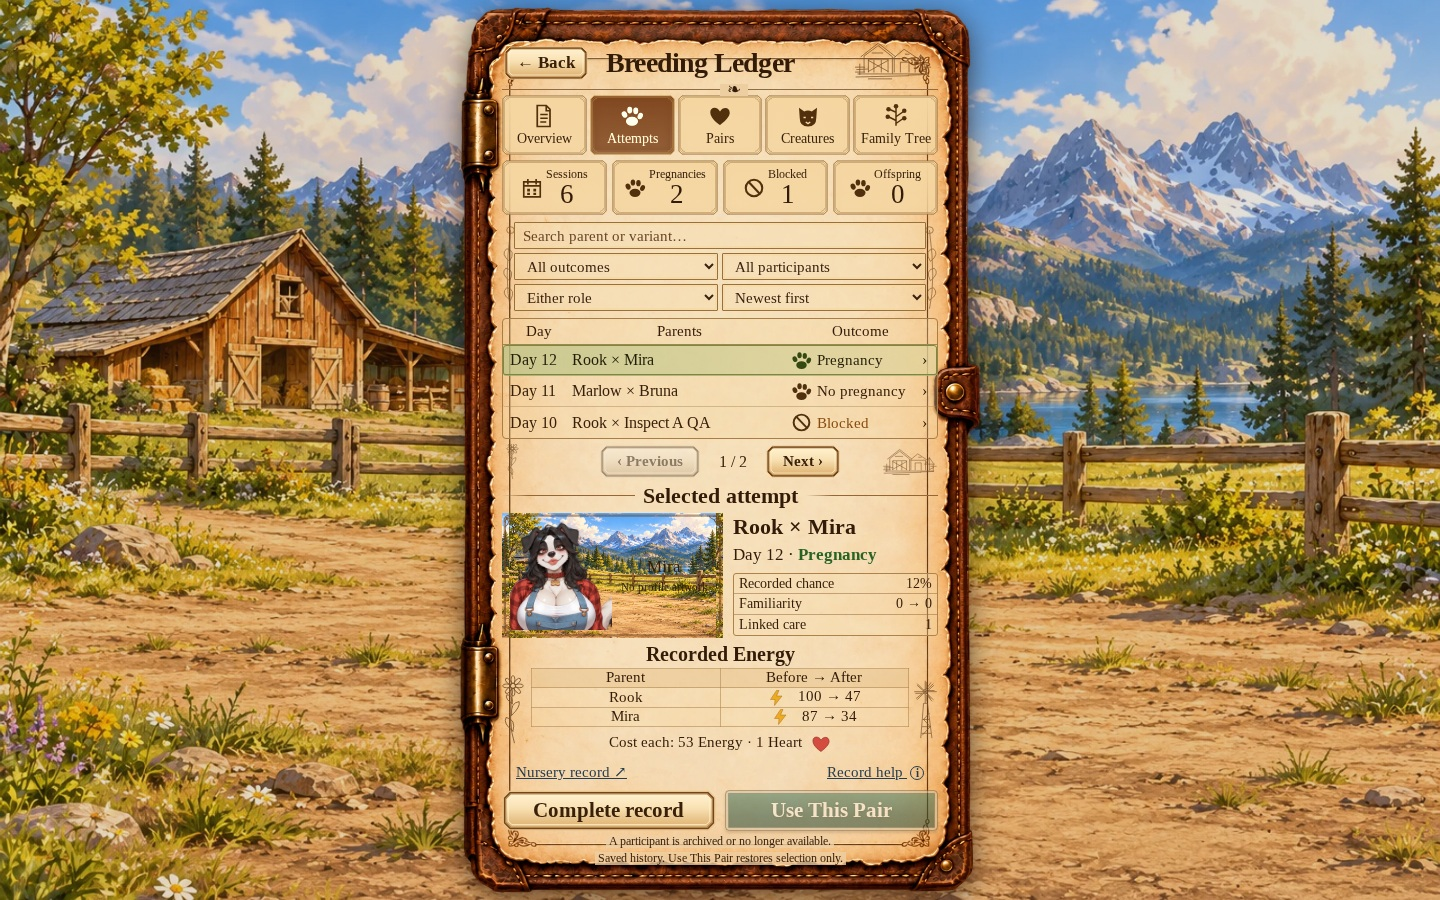
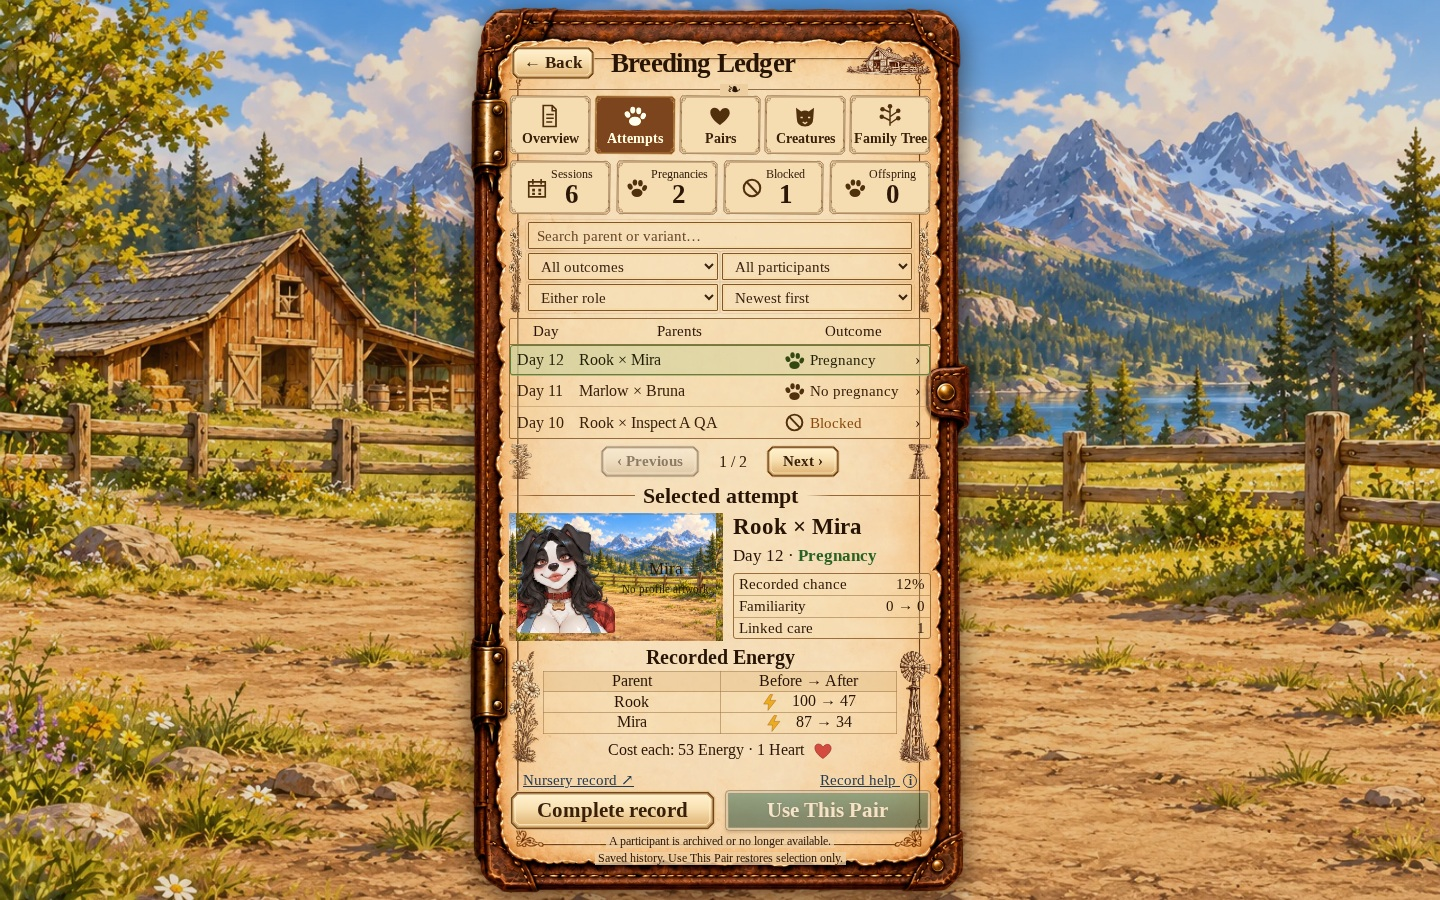
Refine Ledger B with engraved surfaces and detailed sepia artwork

Changed region(s): [[0.3125, 0.0, 0.6875, 0.9956]]

diff --git a/src/features/breeding-records/BreedingLedgerBook.module.css b/src/features/breeding-records/BreedingLedgerBook.module.css
@@ -35,3 +35,14 @@
 @media(max-width:700px){.counts span{font-size:10px}.counts .icon{width:18px;height:18px}.shell .tabs button{border-width:3px}.profile>img{width:230%;left:-65%}}
 @media(min-width:701px) and (min-height:780px){.identity{min-height:120px;max-height:145px}.summary{gap:4px}.summary dl>div{padding:2px 5px}.energy table{font-size:15px}.energy :is(th,td){padding:1px 2px}.energy td .icon{width:16px;height:16px}.energy p{font-size:15px}.links{min-height:25px}.pager{padding-top:1px;padding-bottom:1px}}
 @media(min-width:701px) and (max-height:500px){.shell[data-ledger-tab=overview] .content dl>div{padding:3px}.shell[data-ledger-tab=overview] .content dt{font-size:11px;line-height:1.1}.shell[data-ledger-tab=overview] .content dd{font-size:16px;line-height:1.1;margin:0}.shell[data-ledger-tab=overview] .content>h3{font-size:17px}.shell[data-ledger-tab=overview] .content{gap:4px 12px}.shell[data-ledger-tab=overview] .content>p{font-size:11px}.shell[data-ledger-tab=overview] .content button{font-size:12px;min-height:27px}.shell[data-ledger-tab=overview] .selected{align-content:center}}
+/* Second reference pass: darker etched ink, finer irregular borders, stronger type. */
+.shell{color:#281405}.shell .tabs button{border-image-source:url('/images/ui/breeding-ledger-journal-b/fidelity-v2/tab.svg');font-weight:700;box-shadow:none}.shell .tabs button[aria-pressed=true]{border-image-source:url('/images/ui/breeding-ledger-journal-b/fidelity-v2/tab-active.svg');color:#fff1d3}.counts>div{border-image-source:url('/images/ui/breeding-ledger-journal-b/fidelity-v2/tab.svg');box-shadow:none}.counts span{color:#2b1608}.counts strong{font-weight:700}.filters :is(input,select){border-color:#82552b;outline:1px solid #b28b5933;outline-offset:2px}.list{border-color:#956b3b;border-radius:2px}.tableHeader{border-bottom-color:#986e3c}.shell .row{border-bottom-color:#ad825177}.shell .row[aria-pressed=true]{background:linear-gradient(90deg,#c5d09a99,#e3d3a080);box-shadow:inset 0 0 0 1px #5c843c}.summary dl{border-color:#9b6e3c}.summary dl>div{border-bottom-color:#9b6e3c88}.identity .scene{border-image-source:url('/images/ui/breeding-ledger-journal-b/fidelity-v2/engraved-frame.svg');border-image-slice:32;border-image-width:13px}.selected>h2{font-weight:700}.energy :is(th,td){border-color:#9d724288}.energy h3{font-weight:700}.footer>small{font-size:12px}
+@media(min-width:701px) and (min-height:780px){.book{width:min(500px,100%);padding-left:39px;padding-right:39px}.shell .row{font-size:16px}.summary dl{font-size:15px}.summary h3{font-size:23px}.summary p{font-size:17px}.summary{gap:4px}.identity{min-height:128px;max-height:145px}.energy table{font-size:16px}.energy td .icon{width:17px;height:17px}.energy p{font-size:16px}.header{gap:16px}.header h1{font-size:27px}.header:before{width:80px}.footer>small{font-size:12px}.counts span{font-size:12px}}
+@media(max-width:700px){.footer>small{font-size:10px}.summary dl{font-size:13px}.summary dl>div{padding:2px 3px}}
+@media(max-height:600px){.footer>small{font-size:10px}.summary dl{font-size:12px}}
+.energy{padding-left:34px;padding-right:34px;background-image:url('/images/ui/breeding-ledger-journal-b/fidelity-v2/flowers.webp'),url('/images/ui/breeding-ledger-journal-b/fidelity-v2/windmill.webp');background-size:31px 112px,32px 112px}.pager{background-image:url('/images/ui/breeding-ledger-journal-b/fidelity-v2/flowers.webp'),url('/images/ui/breeding-ledger-journal-b/fidelity-v2/windmill.webp');background-size:23px 43px,23px 43px}.filters{background:url('/images/ui/breeding-ledger-journal-b/fidelity-v2/flowers.webp') left center/13px 92px no-repeat,url('/images/ui/breeding-ledger-journal-b/fidelity-v2/flowers.webp') right center/13px 92px no-repeat;padding-left:19px;padding-right:19px}
+@media(max-width:700px){.energy{padding-left:27px;padding-right:27px;background-size:24px 97px,25px 97px}.pager{background-size:17px 33px,17px 33px}.filters{padding-left:14px;padding-right:14px;background-size:10px 82px,10px 82px}}
+@media(max-height:600px){.energy,.pager{background:none}.energy{padding-left:10px;padding-right:10px}.filters{background:none;padding-left:8px;padding-right:8px}}
+.profile>img{width:300%;left:-100%}
+@media(max-width:700px){.profile>img{width:320%;left:-110%}}
+@media(min-width:701px) and (min-height:780px){.header:before{background-image:url('/images/ui/breeding-ledger-journal-b/fidelity-v2/barn.webp');width:85px;height:43px}}

diff --git a/scripts/build-breeding-ledger-fidelity-v2.py b/scripts/build-breeding-ledger-fidelity-v2.py
@@ -1,0 +1,12 @@
+from pathlib import Path
+out=Path('public/images/ui/breeding-ledger-journal-b/fidelity-v2');out.mkdir(parents=True,exist_ok=True)
+# Deliberately irregular parallel rules and corner hatching reproduce the etched reference.
+for name,face,edge in [('tab','#f6ddb1','#79502a'),('tab-active','#74401c','#c4964e')]:
+ body=f'<path d="M7 2 111 3l7 6-1 62-7 7L8 77l-6-6 1-62Z" fill="{face}" stroke="{edge}" stroke-width="1.5"/><path d="M10 5h98l7 6-1 58-6 6H10l-5-6 1-58Z" fill="none" stroke="{edge}" stroke-width=".7"/>'
+ body+=f'<g fill="none" stroke="{edge}" stroke-width=".9"><path d="m7 17 1-8 8-2-4 7-5-3m98-4 8 2 2 8-7-5 3-5M7 63l1 8 8 2-4-7-5 3m98 4 8-2 2-8-7 5 3 5"/><path d="m4 25 2 3m108-1 2-3M5 55l1 3m108-3 2 3"/></g>'
+ (out/f'{name}.svg').write_text('<svg xmlns="http://www.w3.org/2000/svg" width="120" height="80" viewBox="0 0 120 80">'+body+'</svg>')
+# Thin florid corner frame with a genuinely transparent center, suitable for native content.
+corner='<path d="M2 31V2h29M5 26V5h21M8 17q-5-9 3-9t8 9q0 7-7 4t1-7q8-3 11-9M6 30q9-1 14-10M25 3q-6 9-2 16m-8-3q-5-12-8-9M3 24q7 1 11-4"/>'
+body='<path d="M31 3h338M397 31v178M369 237H31M3 209V31" stroke-width=".8"/>'
+for trans in ['', 'translate(400 0) scale(-1 1)','translate(0 240) scale(1 -1)','translate(400 240) scale(-1 -1)']:body+=f'<g transform="{trans}">{corner}</g>'
+(out/'engraved-frame.svg').write_text('<svg xmlns="http://www.w3.org/2000/svg" width="400" height="240" viewBox="0 0 400 240" fill="none" stroke="#80532a" stroke-width="1">'+body+'</svg>')

diff --git a/public/images/ui/breeding-ledger-journal-b/fidelity-v2/README.md b/public/images/ui/breeding-ledger-journal-b/fidelity-v2/README.md
@@ -1,0 +1,9 @@
+# Concept B fidelity pass 2
+
+The unchanged approved reference is ../source/approved-options.png. Runtime narrows the desktop folio to500px, increases historical summary/record typography and ink contrast, adds irregular engraved tab/count surfaces, an engraved transparent picture frame, and real sepia marginalia with reserved gutters. These are live controls, never a flattened mockup. Canonical profile art, saved values and all source/selection semantics are unchanged.
+
+Generation: built-in imagegen, true transparent background, each distinct asset generated separately using the approved B board as style reference. Untouched PNG masters are retained; WebP outputs preserve RGBA, trim transparent outer space, resize to700px tall and use quality94. Native surfaces rebuild with scripts/build-breeding-ledger-fidelity-v2.py.
+
+Flowers prompt: Use case: stylized-concept. Production transparent game UI decoration, a single narrow vertical sepia ink engraving of three daisies and small wheat/wildflower stems, tiny rustic fence at base. Match fine dark brown hand-etched botanical margin drawings in CENTER B Ranch Field Journal of reference. Dense delicate expressive pen strokes, warm umber dark ink, no colored petals. Tall narrow composition like1:3 ratio, stems curve gently, detailed petals and leaves. Fully transparent background, no parchment or paper or rectangle, NO text, no characters, no clovers, no gold, no shadows. Entire ornament fully contained. This is a margin asset for a professional illustrated ranch journal UI.
+
+Windmill prompt: Use case: stylized-concept. Production transparent game UI ornament, a single narrow vertical sepia ink engraving of an old rustic farm wind pump, circular many-bladed windwheel at top, tapered lattice tower, with a few small wildflowers and rural fence at its base. Match detailed dark brown hand-etched windmill in CENTER B Ranch Field Journal reference, bottom right of record area. Fine expressive pen hatching and weathered farm charm, warm umber dark ink, NO color, gold or cast shadow. Tall narrow1:3 composition, transparent background with absolutely no paper/rectangle, NO text or characters. Whole windmill contained. Premium illustrated fantasy ranch journal marginalia.

diff --git a/docs/BREEDING_LEDGER_JOURNAL_B_RUNTIME.md b/docs/BREEDING_LEDGER_JOURNAL_B_RUNTIME.md
@@ -5,3 +5,6 @@ Selected reference: public/images/ui/breeding-ledger-journal-b/source/approved-o
 Implements tall parchment/leather folio, five icon tabs, grouped filters, paged history, selected historical chance/familiarity/care, exact recorded Energy and costs, Nursery links and selection-only pair restoration. Canonical profile sources remain unchanged. Complete records use Summary, Costs & growth, Offspring and optional Scenes, retaining all original data. Overview is one grouped dashboard. Short windows use Records/Selected record focus; real history collections alone paginate.
 
 Seven ledger-care/selection tests pass. Browser QA covers six viewports, all five tabs and focus views, four complete-record sections, hover/tap help, full profiles, all filters, exact Nursery source return, selection-only handoff, all-eight breeding-window navigation, archived fallback, long names and empty history. Serialized gameplay save remains unchanged throughout. No page errors. Results: docs/validation/breeding-ledger-journal-b/results.json. The final optimized production build and production browser pass are checked before publication. PR21 stays draft/unmerged.
+
+## Second fidelity pass
+User again compared actual screen against B. Fidelity-v2 now uses a500px desktop folio, irregular etched tab/count borders and transparent picture frame, stronger dark ink/bold navigation/counts, larger historical metrics and generated sepia daisy/windmill marginalia. Drawings stay in filter/pager/Energy gutters and are removed from short primary views where they would reduce clarity. Source masters, prompts and SHA256 manifest remain in the asset kit. Actual desktop/phone screenshots and the existing six-viewport/read-only flow audit are rerun for this pass.

diff --git a/AGENTS.md b/AGENTS.md
@@ -211,3 +211,5 @@ The user selected B and requested matching assets, actual desktop/phone screens 
 
 ## Approved Breeding Ledger B Ranch Field Journal
 The user selected B and requested close concept fidelity. Preserve the tall leather/deckled parchment folio, ink barn and confined margin drawings, cream angular controls, five icon tabs, grouped filters, aligned three-row history collection and selected historical summary/recorded Energy table. Use canonical profile sources with full figure on tap; never regenerate concept characters or substitute sample history in production. Overview is one grouped dashboard; complete attempt records use four meaningful sections with all notes, progression, explicit-ID care links and optional scenes retained. Short/long-name views use Records/Selected focus; archived/missing-art fallbacks stay honest. Use This Pair restores recorded role order only. Browsing/filtering/help/source return never charges, rolls or writes. See docs/BREEDING_LEDGER_JOURNAL_B_RUNTIME.md. PR21 remains draft/unmerged.
+
+Ledger B second fidelity pass: preserve fidelity-v2's500px desktop folio, stronger dark type, irregular etched tab/count/picture-frame surfaces and detailed generated sepia daisy/windmill art. Replace neither the RGBA ink artwork with the old sparse stick drawings nor canonical creatures with illustrative concept cast. Keep margin art inside dedicated gutters, retain native controls and actual history values, and recheck all primary/focus views after typography changes.
